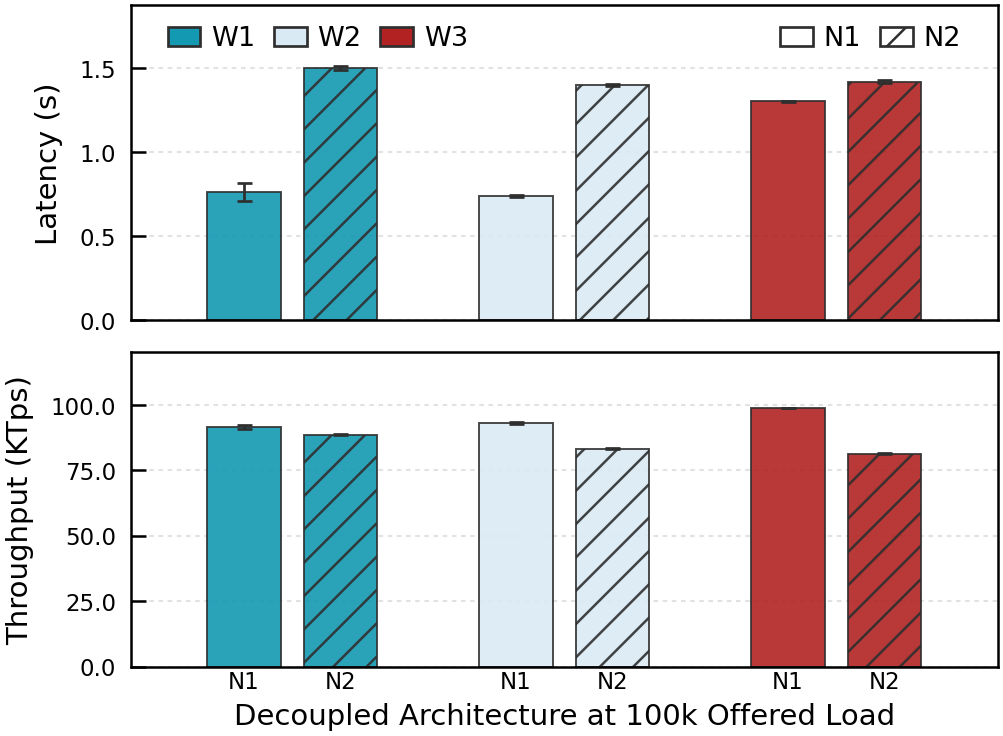
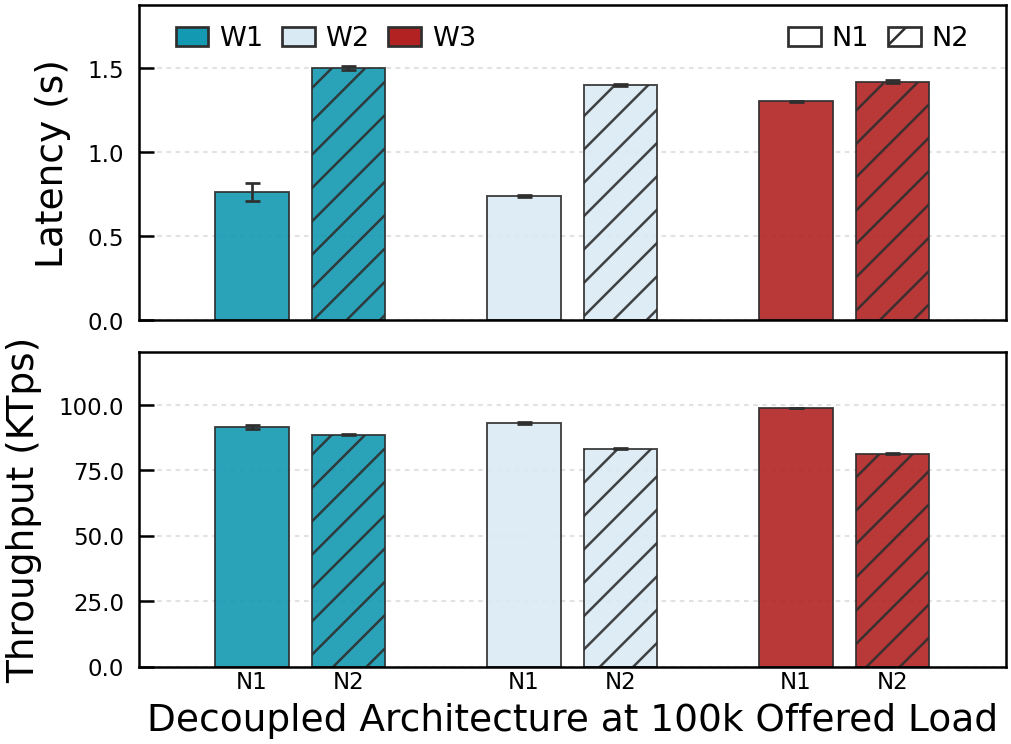
m

Changed region(s): [[0.0, 0.4375, 1.0, 1.0], [0.0309, 0.0, 1.0, 0.4688], [0.7727, 0.0312, 0.9581, 0.0625]]

diff --git a/benchmark/decouple/compare/plot_workload_grouped_network_metrics_decouple_100k_consensus.py b/benchmark/decouple/compare/plot_workload_grouped_network_metrics_decouple_100k_consensus.py
@@ -158,8 +158,8 @@ def _set_academic_style():
             "font.family": "sans-serif",
             "font.sans-serif": ["DejaVu Sans", "Arial", "Helvetica"],
             "mathtext.fontset": "dejavusans",
-            "font.size": 6,
-            "axes.labelsize": 7,
+            "font.size": 9,
+            "axes.labelsize": 9,
             "axes.titlesize": 7,
             "xtick.labelsize": 5.5,
             "ytick.labelsize": 5.5,
